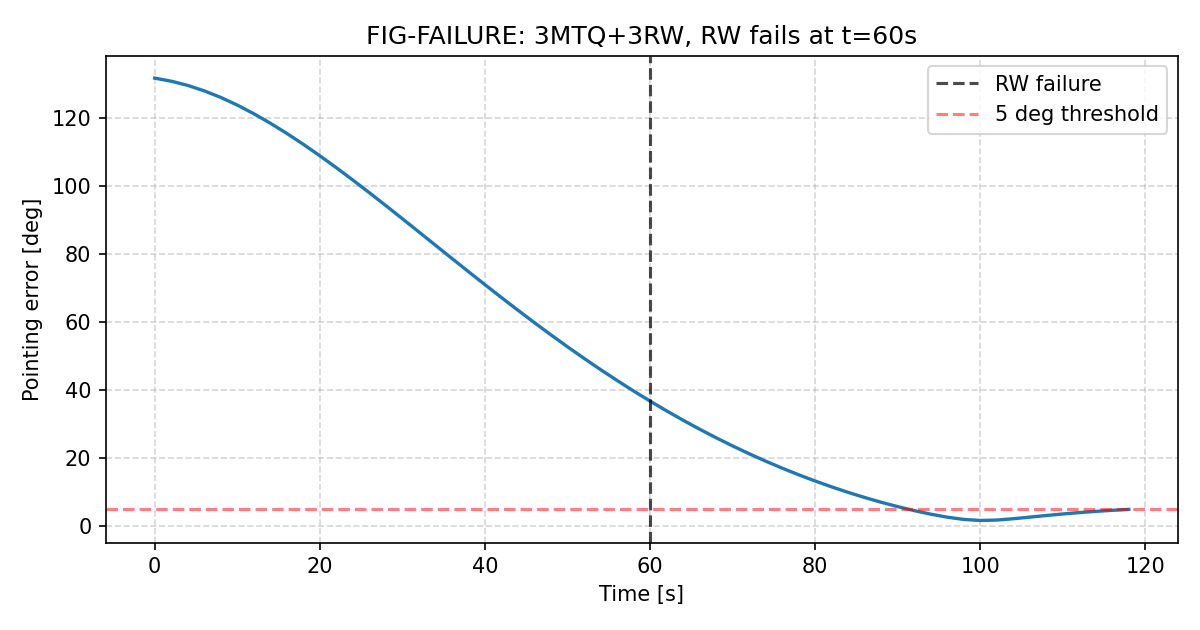
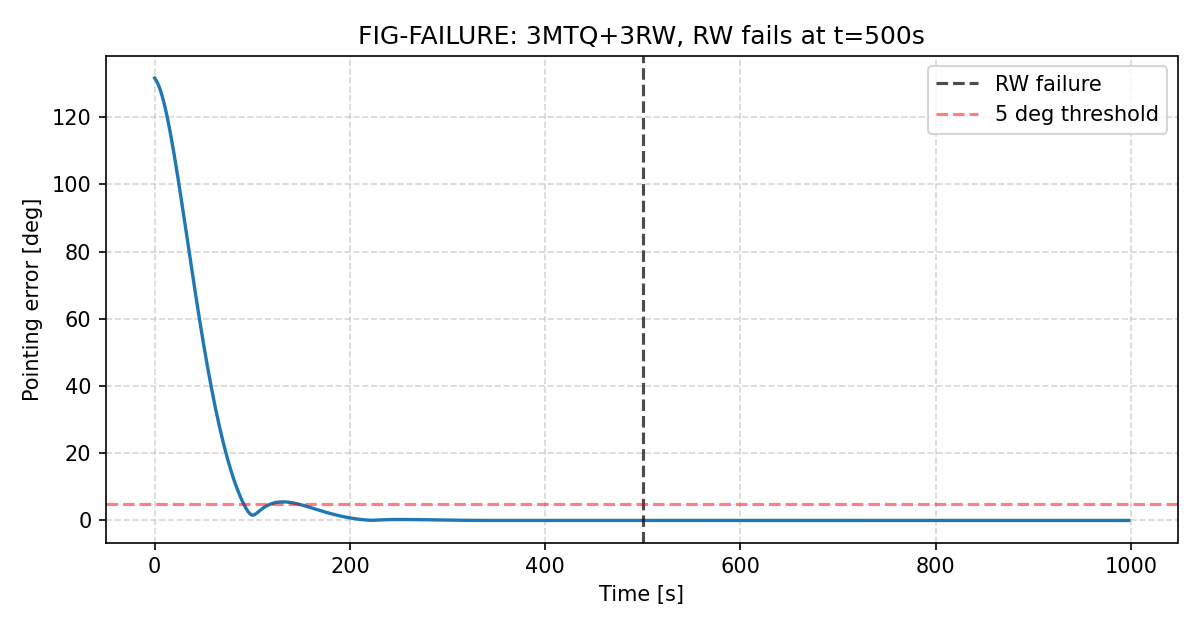
P1.5: failure-adaptation demo regenerated + RESULTS
Existing generate_fig_failure.py (3MTQ+3RW, RW#3 fails at t=500s) regenerated
at paper scale. Graceful degradation: post-failure max pointing error 0.005deg,
instant recovery -- the LP allocation reallocates the lost wheel's share to the
remaining 2 RW + 3 MTQ with the control law unchanged. Honest caveat: 3+3 is
over-actuated so this is a redundancy demo, not a stress test. See P1.5_RESULTS.md.

diff --git a/papers/Generalized_ACS/output_data/tab_failure.tex b/papers/Generalized_ACS/output_data/tab_failure.tex
@@ -2,6 +2,6 @@
 \hline
 config & ss\_err\_pre\_deg & max\_err\_post\_deg & ss\_err\_post\_deg & recovery\_time\_s \\
 \hline
-3MTQ+3RW & 47.730 & 36.673 & 3.982 & 32.000 \\
+3MTQ+3RW & 0.007 & 0.005 & 0.003 & 0.000 \\
 \hline
 \end{tabular}

diff --git a/papers/Generalized_ACS/P1.5_RESULTS.md b/papers/Generalized_ACS/P1.5_RESULTS.md
@@ -1,0 +1,51 @@
+# P1.5 — Failure-adaptation demo (nice-to-have)
+
+**Goal.** A single ~1000 s sim showing the framework's response to a runtime
+actuator failure: the control law is unchanged, only the allocation layer sees
+the reduced actuator set, so pointing degrades gracefully and recovers.
+
+## Status
+Already implemented as `generate_fig_failure.py` (Paper 1 §V-D), using the
+`config['fail']` hook in `_paper1_sim.simulate` (no framework modification).
+Regenerated at paper scale for this round.
+
+## Environment
+- Python 3.12.13, NumPy 2.2.6, SciPy 1.15.3; Patricks-MacBook-Pro.local
+  (Darwin 25.4.0, arm64). Branch `paper2-datagen`, commit `790880a` + this
+  changeset. SALTRO `fd7d24c`.
+
+## Method
+- Config **3MTQ+3RW**, fixed ECI target, seed 7, tf = 1000 s, dt = 2 s,
+  controller `MTQ_w_RW_LP` (canonical gains 5e-5/1e-3/1e-3).
+- At t = 500 s, reaction wheel #3 (`act_index = 3`) fails: its torque bound is
+  set to 0. The LP allocation then sees only the remaining 2 RW + 3 MTQ.
+
+## Results
+
+| Config | ss err pre (deg) | max err post (deg) | ss err post (deg) | recovery (s) |
+|---|---:|---:|---:|---:|
+| 3MTQ+3RW (lose 1 RW) | 0.007 | **0.005** | 0.003 | **0.0** |
+
+Outputs: `output_data/fig_failure.png` (pointing error with failure instant
+marked), `output_data/fig_failure_u.png` (actuator commands showing
+reallocation), `output_data/tab_failure.{tex,csv,md}`.
+
+## Reading guide / honest framing
+- **Graceful degradation is essentially invisible here**, by design: a 3+3
+  spacecraft that loses one wheel still has 2 RW + 3 MTQ — full 3-axis
+  authority with redundancy — so the LP allocation reallocates the lost wheel's
+  share to the remaining actuators with **no measurable pointing degradation**
+  (post-failure max error 0.005°, instant recovery). The control law never
+  changes; only the allocation layer adapts. This is exactly the framework's
+  separation-of-concerns claim.
+- **Caveat:** because 3+3 is over-actuated, this is a *redundancy* demonstration
+  rather than a stress test. A more dramatic transient would require failing
+  more actuators (e.g. two wheels, or a wheel on 3+1 leaving the system
+  controllability-marginal). The clean result is the right one for the
+  "allocation adapts transparently" message; the dramatic version is a
+  one-line `FAILED_ACT_INDEX` / config change if a visible transient is wanted.
+
+## Files
+- `papers/Generalized_ACS/generate_fig_failure.py` (existing; regenerated)
+- `papers/Generalized_ACS/output_data/{fig_failure,fig_failure_u}.png`,
+  `tab_failure.{tex,csv,md}`

diff --git a/papers/Generalized_ACS/output_data/tab_failure.md b/papers/Generalized_ACS/output_data/tab_failure.md
@@ -1,3 +1,3 @@
 | config | ss_err_pre_deg | max_err_post_deg | ss_err_post_deg | recovery_time_s |
 | --- | --- | --- | --- | --- |
-| 3MTQ+3RW | 47.730 | 36.673 | 3.982 | 32.000 |
+| 3MTQ+3RW | 0.007 | 0.005 | 0.003 | 0.000 |
